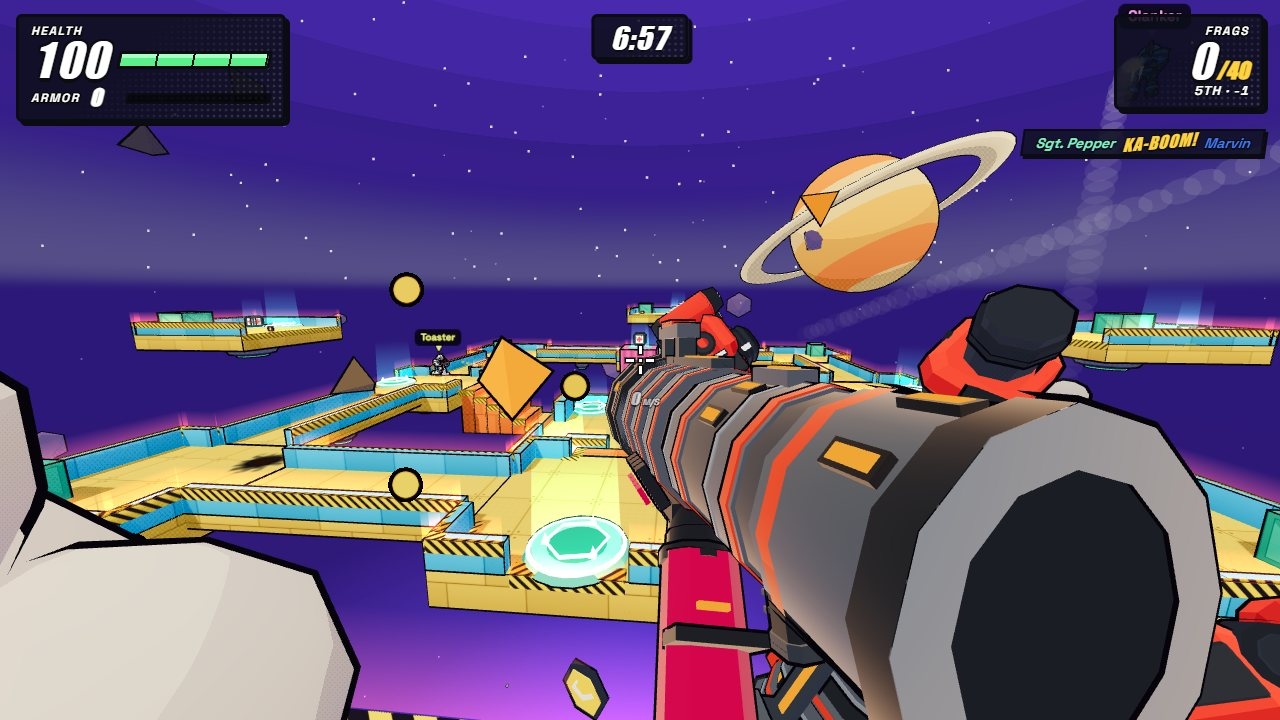
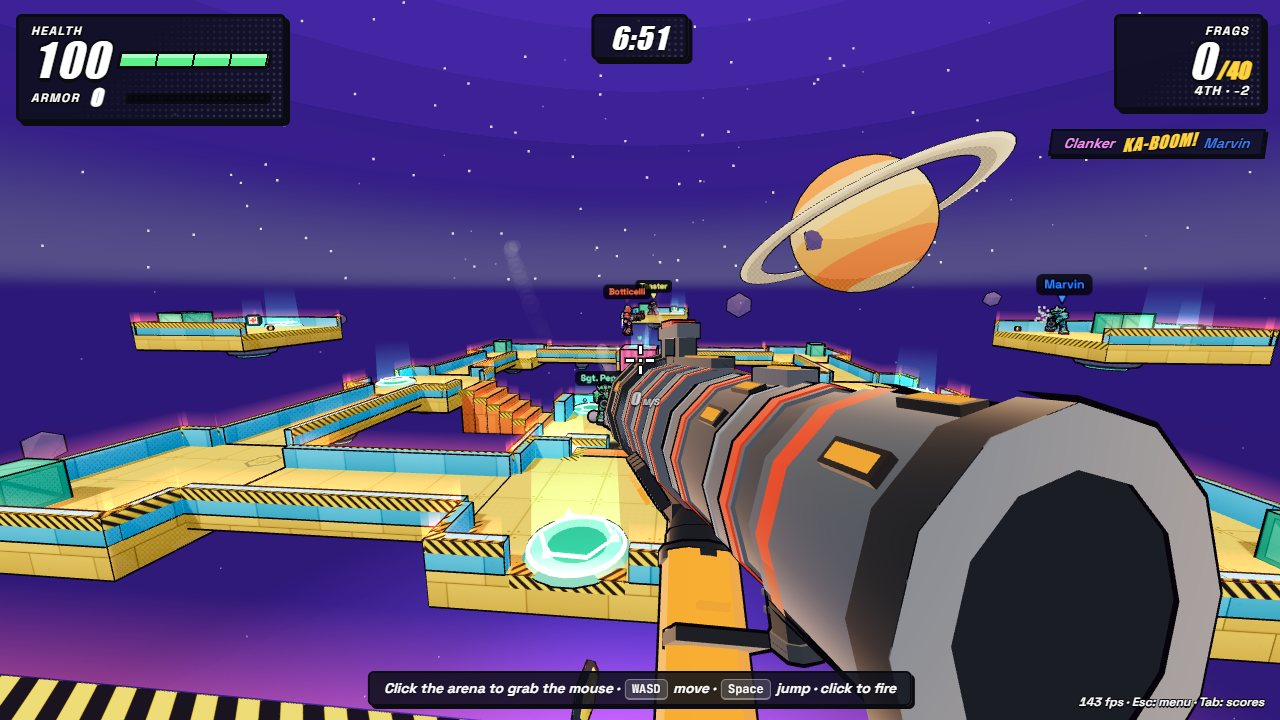
play: Rockets low graphics quality skips the neon bloom pass

diff --git a/play/frontend/src/games/rockets/client.ts b/play/frontend/src/games/rockets/client.ts
@@ -316,6 +316,8 @@ export class RocketsClient implements GameClient {
   private effects?: Effects;
   private arena?: ArenaView;
   private bloom?: Bloom;
+  /** The quality preset allows the bloom pass (neon maps only build one). */
+  private bloomOn = true;
   private map?: MapData;
   private readonly snaps = new SnapshotTimeline<RocketsSnapshot>();
   private readonly remotes = new Map<string, Remote>();
@@ -928,7 +930,7 @@ export class RocketsClient implements GameClient {
     // Neon maps glow: bloom on the bright strips, signs and the sun.
     if (themeOf(map).neon) {
       const bloom = (this.bloom = createBloom(engine.renderer));
-      engine.renderHook = () => bloom.render(engine.scene, engine.camera);
+      engine.renderHook = () => (this.bloomOn ? bloom.render(engine.scene, engine.camera) : engine.renderer.render(engine.scene, engine.camera));
       // Neon trails: a hot pink streak cooling into lavender haze.
       this.effects?.trailColors.hot.set(0xff6ad8);
       this.effects?.trailColors.smoke.set(0xb8a0ff);
@@ -1054,11 +1056,12 @@ export class RocketsClient implements GameClient {
     this.raise.reset(-0.3);
   }
 
-  /** Pixel-ratio cap, shadows and outlines for a quality preset. applyQuality drops the shadow map, so redraw it. */
+  /** Pixel-ratio cap, shadows, outlines and bloom for a quality preset. applyQuality drops the shadow map, so redraw it. */
   private applyQualityNow(q: Quality) {
     const engine = this.engine;
     if (!engine) return;
     engine.setMaxPixelRatio(QUALITY[q].pixelRatio);
+    this.bloomOn = QUALITY[q].bloom;
     applyQuality(engine.scene, q);
     engine.invalidateShadows();
   }

diff --git a/play/frontend/src/games/rockets/settings.ts b/play/frontend/src/games/rockets/settings.ts
@@ -74,10 +74,11 @@ export const DEFAULTS: RocketsSettings = {
 };
 
 /** What each graphics preset means. `pixelRatio` caps the renderer (the engine governor can still go lower). */
-export const QUALITY: Record<Quality, { pixelRatio: number; shadows: boolean; shadowMap: number; outlines: boolean }> = {
-  low: { pixelRatio: 1, shadows: false, shadowMap: 512, outlines: false },
-  medium: { pixelRatio: 1.25, shadows: true, shadowMap: 1024, outlines: true },
-  high: { pixelRatio: 1.5, shadows: true, shadowMap: 2048, outlines: true },
+/** `bloom` is the neon maps' glow pass (bloom.ts); low quality draws them without it. */
+export const QUALITY: Record<Quality, { pixelRatio: number; shadows: boolean; shadowMap: number; outlines: boolean; bloom: boolean }> = {
+  low: { pixelRatio: 1, shadows: false, shadowMap: 512, outlines: false, bloom: false },
+  medium: { pixelRatio: 1.25, shadows: true, shadowMap: 1024, outlines: true, bloom: true },
+  high: { pixelRatio: 1.5, shadows: true, shadowMap: 2048, outlines: true, bloom: true },
 };
 
 const KEY = 'rockets.settings.v1';
